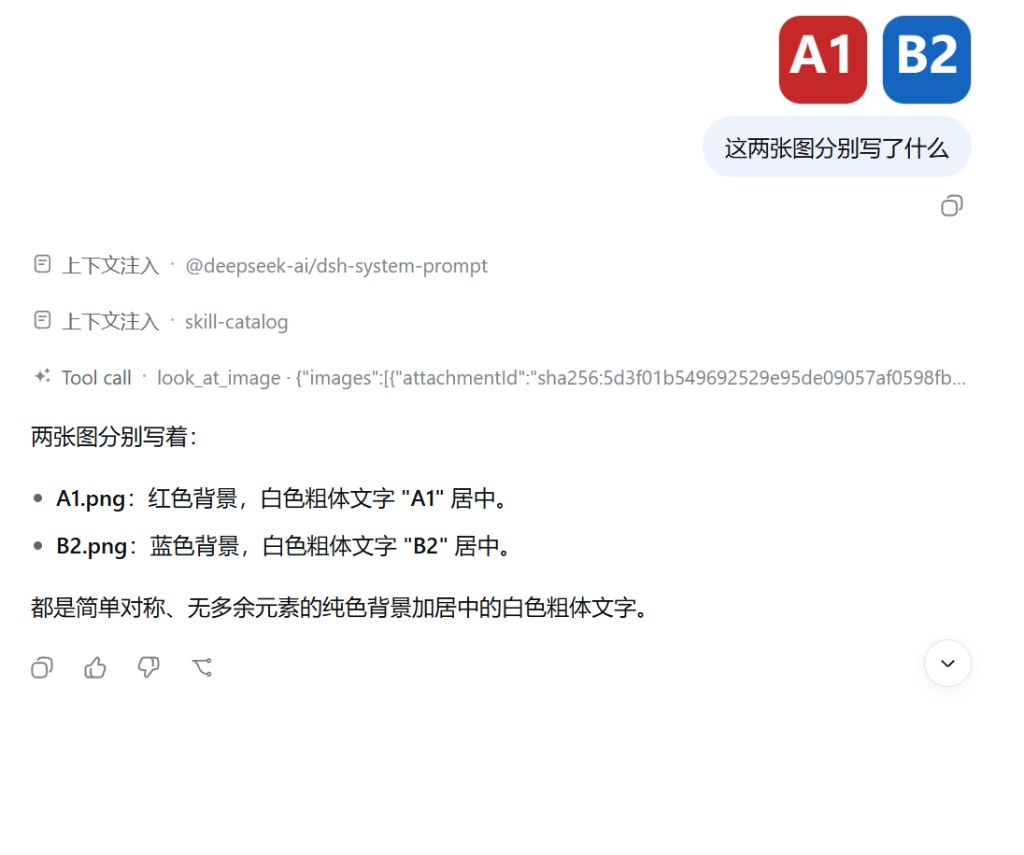
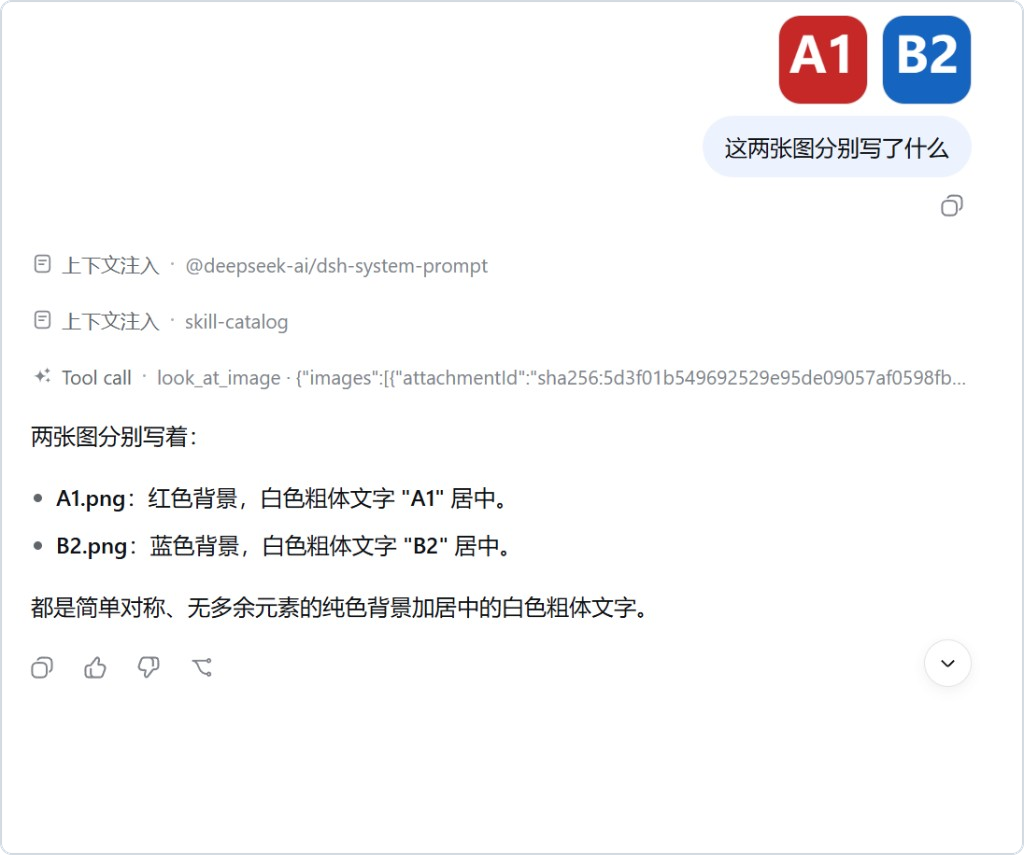
Add a UI preview section and frame every README screenshot.
The dialog screenshots are white-on-white against GitHub's page, so each
image now carries a baked rounded border: inline style on <img> is
stripped by the markdown sanitizer, and a CSS frame would not survive.

Crops trim the modal backdrop and trailing whitespace, measured from the
white card bounds rather than eyeballed. The three settings screenshots
sit together in one table under a new 界面预览 section instead of being
scattered across the document, and the friend link icon is enlarged.

diff --git a/README.md b/README.md
@@ -13,7 +13,7 @@ No fork, no patching the harness.
 [![DeepSeek Harness](https://img.shields.io/badge/DeepSeek%20Harness-plugin-111.svg)](https://github.com/deepseek-ai/deepseek-harness)
 [![Install](https://img.shields.io/badge/install-dsh%20plugin%20add-0b7285.svg)](#安装)
 
-<img src="docs/vision-look-at.png" alt="聊天里贴图，触发 look_at_image 工具调用，原文本模型据此作答" width="820" />
+<img src="docs/vision-look-at.png" alt="聊天里贴图，触发 look_at_image 工具调用，原文本模型据此作答" width="720" />
 
 <sub>贴图 → <code>look_at_image</code> 工具调用 → 原文本模型作答</sub>
 
@@ -27,6 +27,7 @@ No fork, no patching the harness.
 - [特性](#特性)
 - [环境要求](#环境要求)
 - [安装](#安装)
+- [界面预览](#界面预览)
 - [MCP 服务器](#mcp-服务器)
 - [视觉桥接](#视觉桥接)
 - [工作原理](#工作原理)
@@ -113,6 +114,29 @@ dsh plugin --profile web remove dsh-plus
 配置文件不会被删除，重新安装即可恢复。
 
 </details>
+
+## 界面预览
+
+<div align="center">
+<table>
+<tr>
+<td width="50%" valign="top" align="center">
+<img src="docs/settings-mcp.png" alt="设置页 MCP 标签，列出已配置的 MCP 服务器" width="100%" /><br>
+<sub><b>MCP 标签</b> · 服务器状态与工具数一览</sub>
+</td>
+<td width="50%" valign="top" align="center">
+<img src="docs/settings-mcp-form.png" alt="添加 MCP 服务器表单，可填写传输方式、命令、参数与环境变量" width="100%" /><br>
+<sub><b>添加服务器</b> · stdio / HTTP 两种传输</sub>
+</td>
+</tr>
+<tr>
+<td colspan="2" align="center">
+<img src="docs/settings-vision.png" alt="视觉标签，配置多模态接口并按模型勾选外挂视觉" width="62%" /><br>
+<sub><b>视觉标签</b> · 配置 VL 接口，按提供方逐个勾选文本模型</sub>
+</td>
+</tr>
+</table>
+</div>
 
 ## MCP 服务器
 
@@ -344,5 +368,5 @@ pnpm build
 ---
 
 <div align="center">
-<sub>友链 · <a href="https://linux.do"><img src="docs/linux-do.svg" width="12" height="12" align="absmiddle" alt=""> linux.do</a></sub>
+<sub>友链 · <a href="https://linux.do"><img src="docs/linux-do.svg" width="18" height="18" align="absmiddle" alt=""> <b>linux.do</b></a></sub>
 </div>
